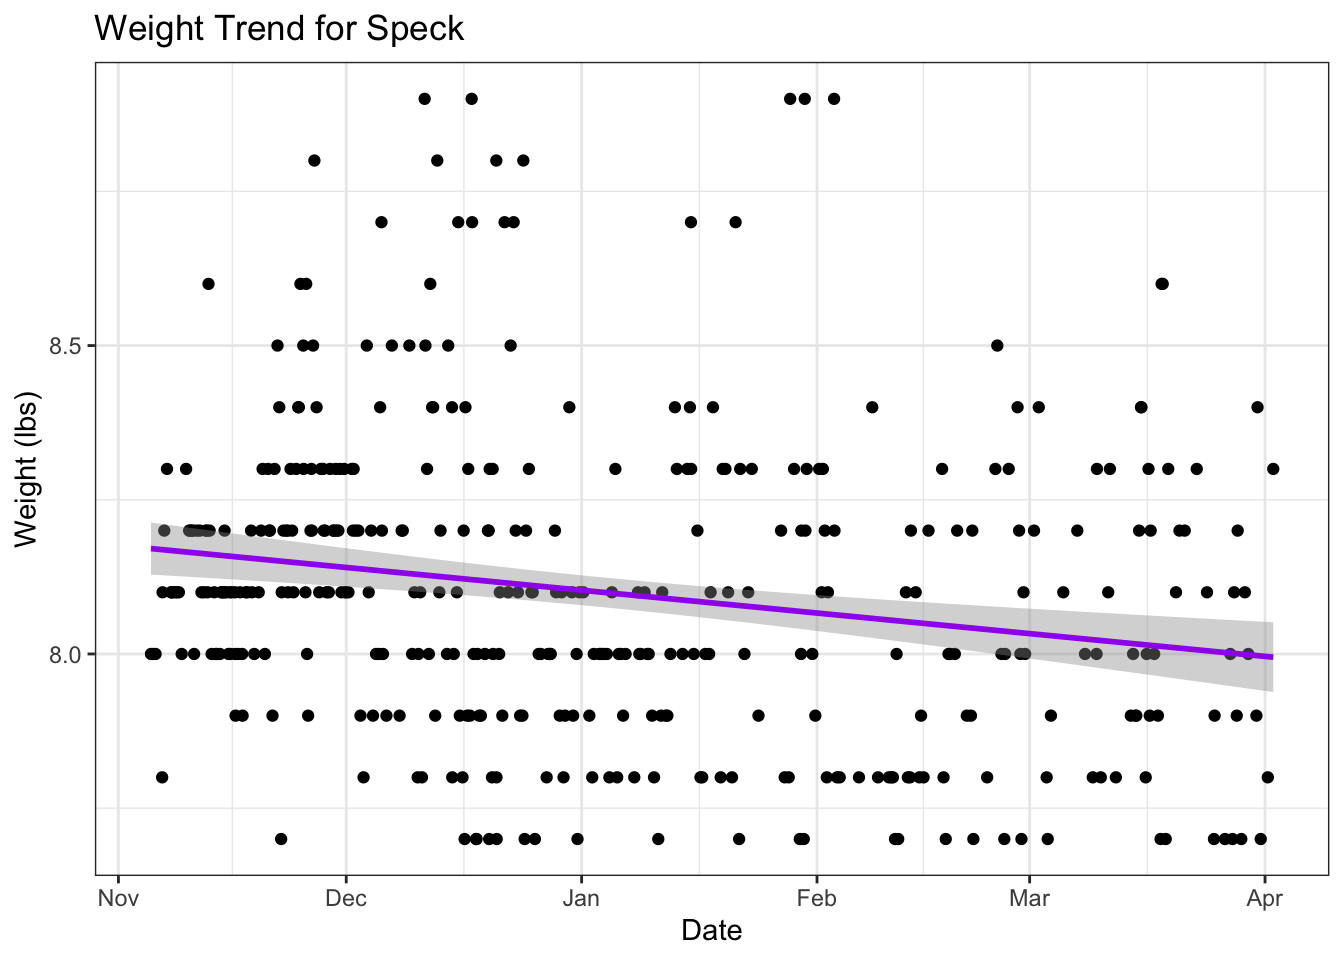
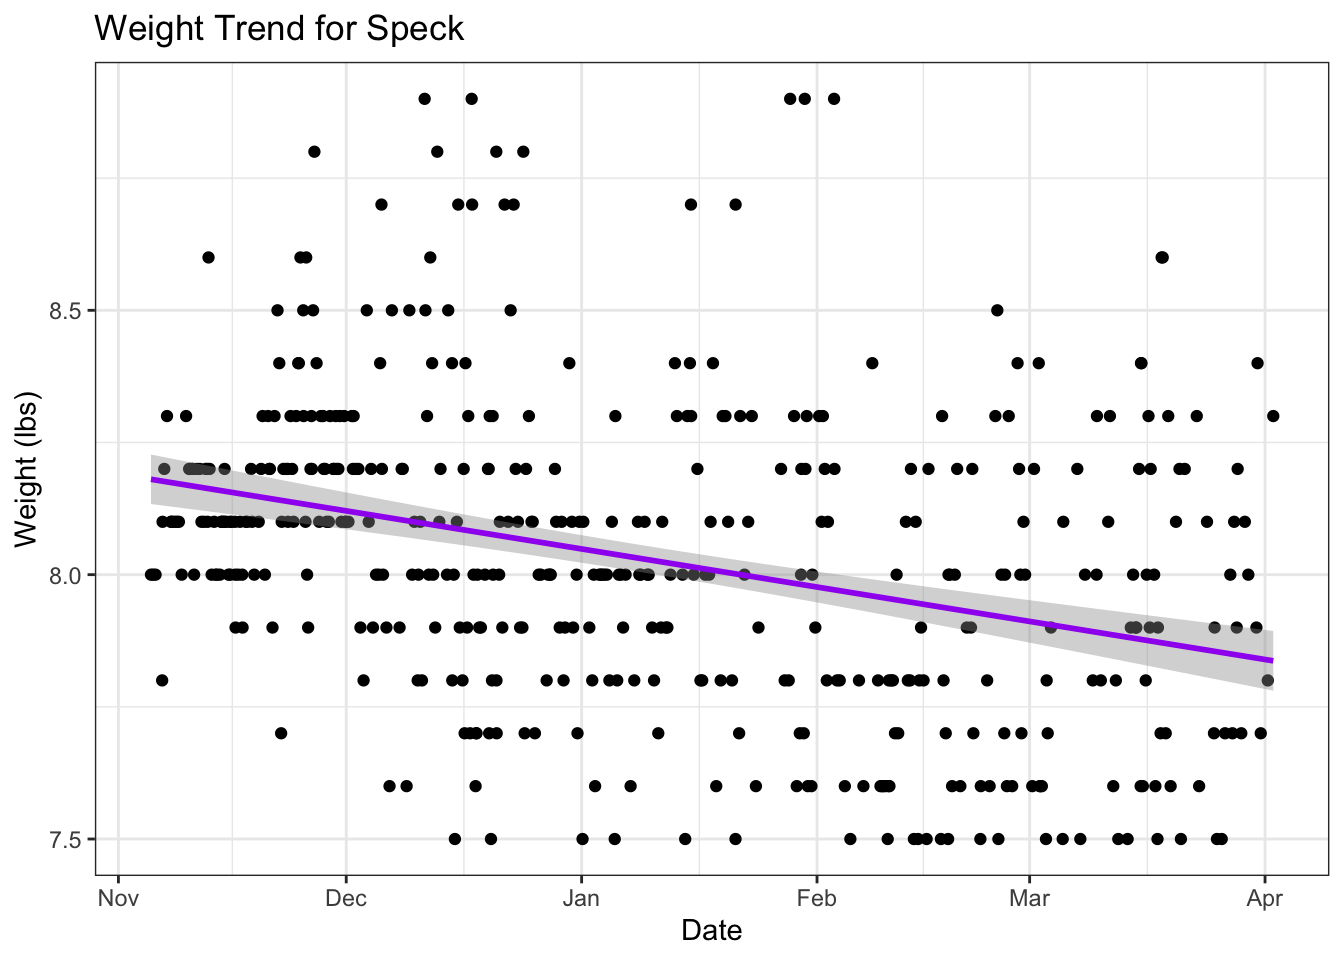
updated weight ranges

diff --git a/index.html b/index.html
@@ -223,13 +223,13 @@ Figure&nbsp;1
 <tbody>
 <tr class="odd">
 <td style="text-align: left;">Catness</td>
-<td style="text-align: right;">9.6</td>
+<td style="text-align: right;">9.5</td>
 <td style="text-align: right;">10.9</td>
 <td style="text-align: right;">10.2</td>
 <td style="text-align: right;">10.2</td>
 <td style="text-align: right;">0.35</td>
-<td style="text-align: right;">0.25</td>
-<td style="text-align: right;">2.12</td>
+<td style="text-align: right;">0.19</td>
+<td style="text-align: right;">2.20</td>
 </tr>
 <tr class="even">
 <td style="text-align: left;">Frankie</td>
@@ -253,13 +253,13 @@ Figure&nbsp;1
 </tr>
 <tr class="even">
 <td style="text-align: left;">Speck</td>
-<td style="text-align: right;">7.7</td>
+<td style="text-align: right;">7.5</td>
 <td style="text-align: right;">8.9</td>
-<td style="text-align: right;">8.1</td>
-<td style="text-align: right;">8.1</td>
-<td style="text-align: right;">0.25</td>
-<td style="text-align: right;">0.72</td>
-<td style="text-align: right;">3.73</td>
+<td style="text-align: right;">8.0</td>
+<td style="text-align: right;">8.0</td>
+<td style="text-align: right;">0.30</td>
+<td style="text-align: right;">0.30</td>
+<td style="text-align: right;">3.13</td>
 </tr>
 </tbody>
 </table>
@@ -280,8 +280,8 @@ Figure&nbsp;1
 <tbody>
 <tr class="odd">
 <td style="text-align: left;">Catness</td>
-<td style="text-align: right;">499</td>
-<td style="text-align: right;">23.8</td>
+<td style="text-align: right;">506</td>
+<td style="text-align: right;">24.1</td>
 </tr>
 <tr class="even">
 <td style="text-align: left;">Frankie</td>
@@ -295,8 +295,8 @@ Figure&nbsp;1
 </tr>
 <tr class="even">
 <td style="text-align: left;">Speck</td>
-<td style="text-align: right;">401</td>
-<td style="text-align: right;">19.1</td>
+<td style="text-align: right;">459</td>
+<td style="text-align: right;">21.9</td>
 </tr>
 </tbody>
 </table>

diff --git a/cleaner.py b/cleaner.py
@@ -50,8 +50,8 @@ class CatDataCleaner:
         self.df['Cat'] = 'undetermined'
         self.df.loc[(self.df['Weight'] >= 12.2) & (self.df['Weight'] <= 13.0), 'Cat'] = 'Gilbert'
         self.df.loc[(self.df['Weight'] >= 11.0) & (self.df['Weight'] <= 12.1), 'Cat'] = 'Frankie'
-        self.df.loc[(self.df['Weight'] >= 9.6) & (self.df['Weight'] <= 10.9), 'Cat'] = 'Catness'
-        self.df.loc[(self.df['Weight'] >= 7.7) & (self.df['Weight'] <= 8.9), 'Cat'] = 'Speck'
+        self.df.loc[(self.df['Weight'] >= 9.5) & (self.df['Weight'] <= 10.9), 'Cat'] = 'Catness'
+        self.df.loc[(self.df['Weight'] >= 7.5) & (self.df['Weight'] <= 8.9), 'Cat'] = 'Speck'
 
     def _drop_undetermined(self):
         self.df = self.df[self.df['Cat'] != 'undetermined']
